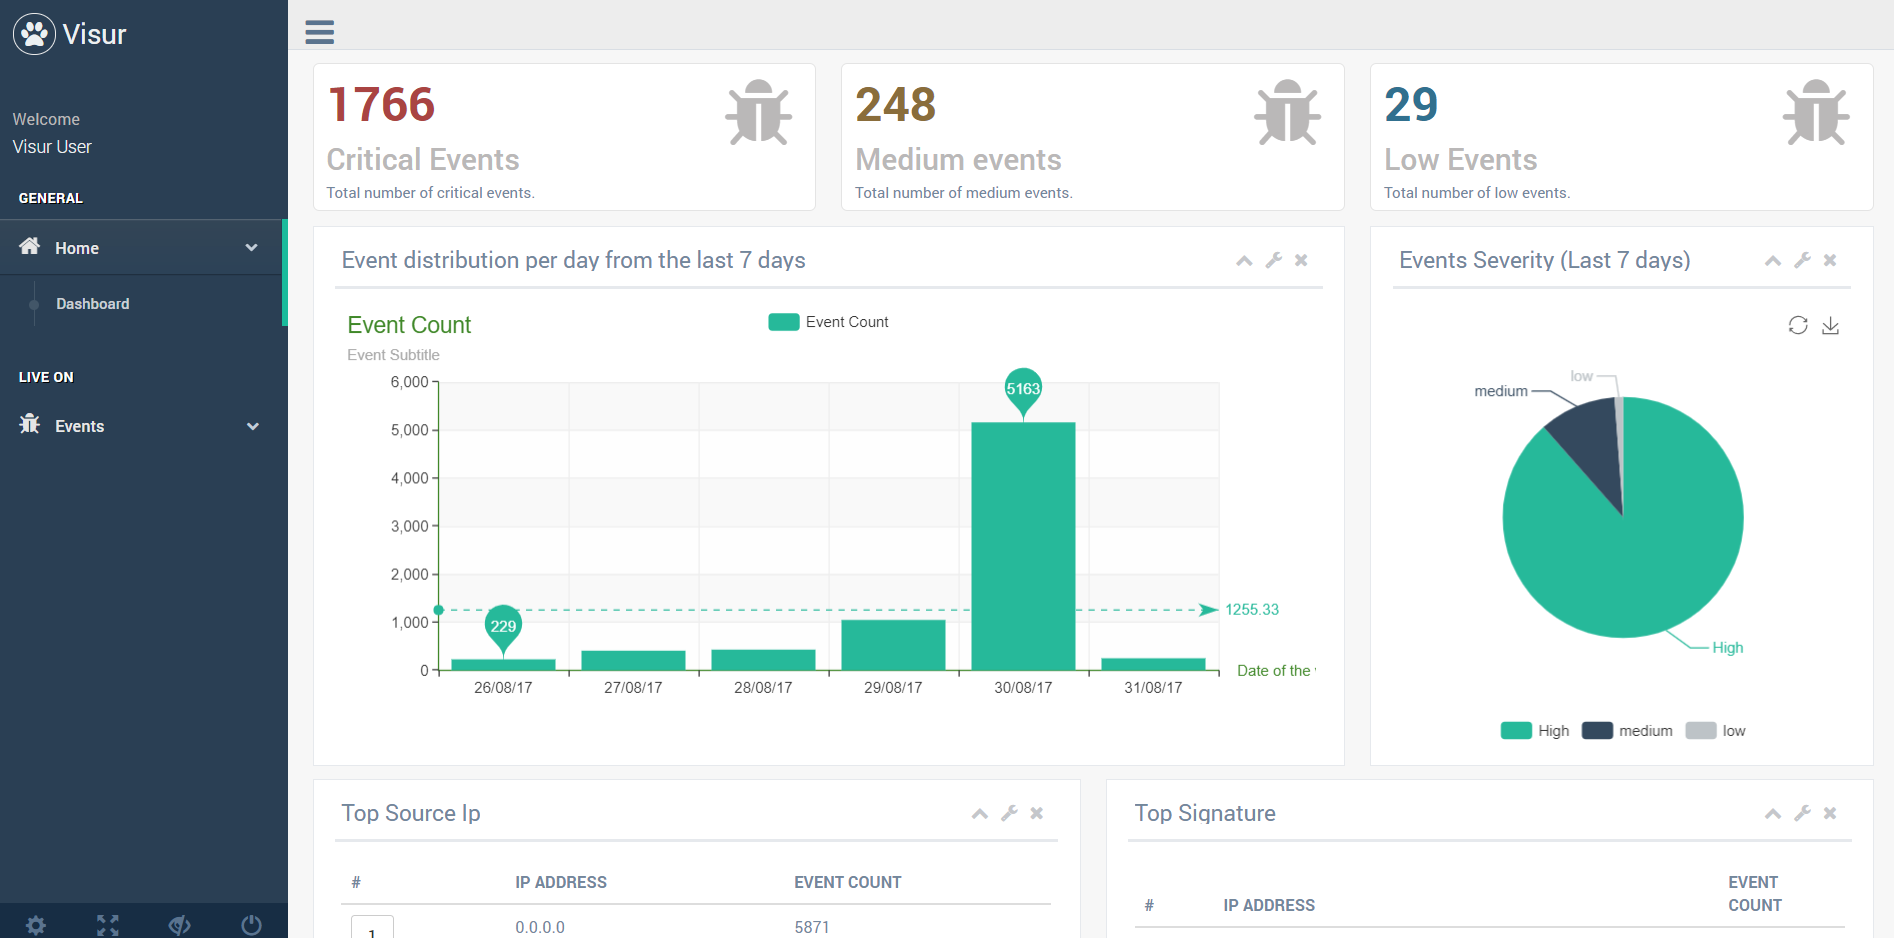
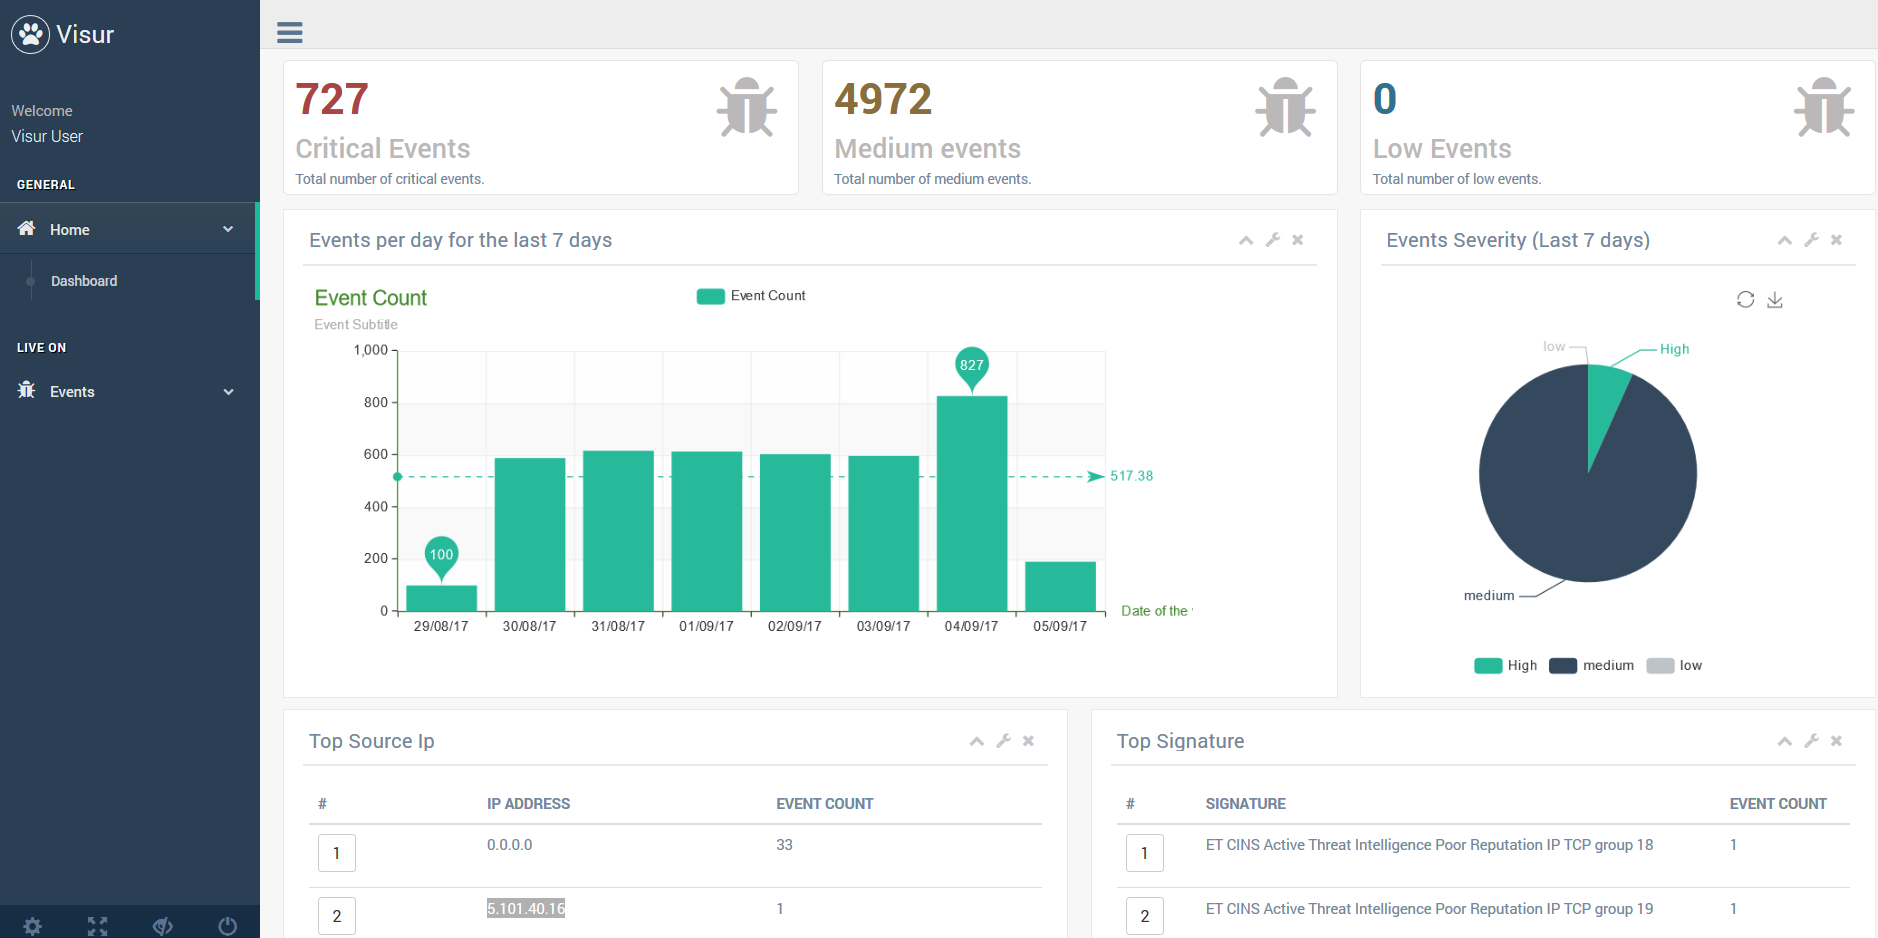
Updated readme

diff --git a/resources/views/pages/dashboard.blade.php b/resources/views/pages/dashboard.blade.php
@@ -35,7 +35,7 @@
         <div class="col-md-8 col-sm-8 col-xs-12">
             <div class="x_panel">
                 <div class="x_title">
-                    <h2>Event distribution per day from the last 7 days </h2>
+                    <h2>Events per day for the last 7 days </h2>
                     <ul class="nav navbar-right panel_toolbox">
                         <li><a class="collapse-link"><i class="fa fa-chevron-up"></i></a>
                         </li>

diff --git a/resources/views/pages/event.blade.php b/resources/views/pages/event.blade.php
@@ -8,7 +8,7 @@
             <div class="title_left">
                 <h3>Events</h3>
                 <div class="alert alert-info alert-dismissable">
-                    {{$events->total()}} {{$severity}} distinct events found
+                    {{$events->total()}} distinct {{$severity}}  events found
                 </div>
             </div>
 

diff --git a/README.md b/README.md
@@ -1,9 +1,9 @@
 # Visur
 
 A PHP application built with lumen framework for network security monitoring that integrates well with your existing [Security Onion](http://www.dropwizard.io/1.0.2/docs/) server. The main goal is to build this in place of  [Snorby](https://github.com/Snorby/snorby) that is no longer supported from security onion 14 and above.
-![image](https://user-images.githubusercontent.com/14722744/29991407-0fdb3d0e-8f7e-11e7-9749-223f6c72e570.png)
+![image](https://user-images.githubusercontent.com/14722744/30086569-9fdfc6c8-9293-11e7-918b-885a49aeb543.png)
 
-![image](https://user-images.githubusercontent.com/14722744/29991412-2791dc46-8f7e-11e7-81e9-3a95ea83f0c4.png)
+![image](https://user-images.githubusercontent.com/14722744/30086586-b5b04dc4-9293-11e7-9be1-355f09cac3f6.png)
 
 
 ## Getting Started
